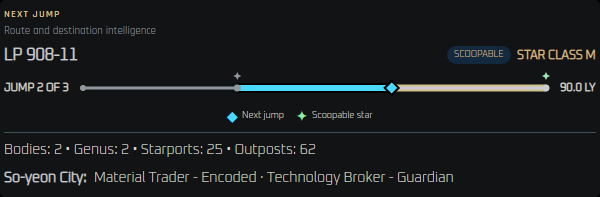
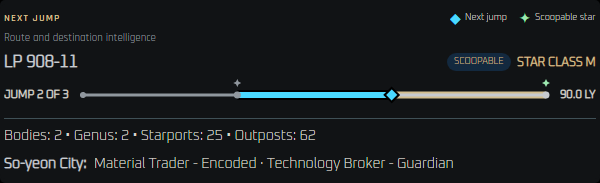
Place Next Jump route legend beside the title

diff --git a/tests/SrvSurvey.Desktop.Tests/Platform/OverlayLivePanelSizingTests.cs b/tests/SrvSurvey.Desktop.Tests/Platform/OverlayLivePanelSizingTests.cs
@@ -658,7 +658,10 @@ public sealed class OverlayLivePanelSizingTests
             layout.SetPlacement(plotter, layout.Placements[plotter] with { SizeOverride = new(820, 600) });
             using WriteableBitmap? resizedFrame = host.CaptureRenderedFrame();
             Assert.Equal(820, presentation.Bounds.Width);
-            Assert.True(presentation.Bounds.Height < 600);
+            Assert.True(double.IsNaN(presentation.Height));
+            // Natural content height varies with the runner's fonts and can exceed the old saved height.
+            presentation.Measure(new Size(820, double.PositiveInfinity));
+            Assert.InRange(Math.Abs(presentation.Bounds.Height - presentation.DesiredSize.Height), 0, 1);
             Size resizedSize = presentation.Bounds.Size;
             host.Remove(presenter);
             presenter.Content = null;

diff --git a/CurrentReleaseNotes.md b/CurrentReleaseNotes.md
@@ -40,9 +40,9 @@ content.
   destination marker identify the active jump, including with monochrome overlay
   themes. Other route legs retain their theme colors.
 - **Recognize scoopable stars.** Filled star markers replace the hollow ovals.
-  The route legend identifies these as scoopable stars and explains the next-jump
-  marker. They describe the star's fuel-scooping capability, rather than fuel
-  level or whether the system has been visited.
+  The legend sits at the top right beside the panel title, identifying
+  scoopable stars and the next-jump marker. They describe the star's fuel-scooping
+  capability, rather than fuel level or whether the system has been visited.
 
 ## Commander Powerplay status
 
